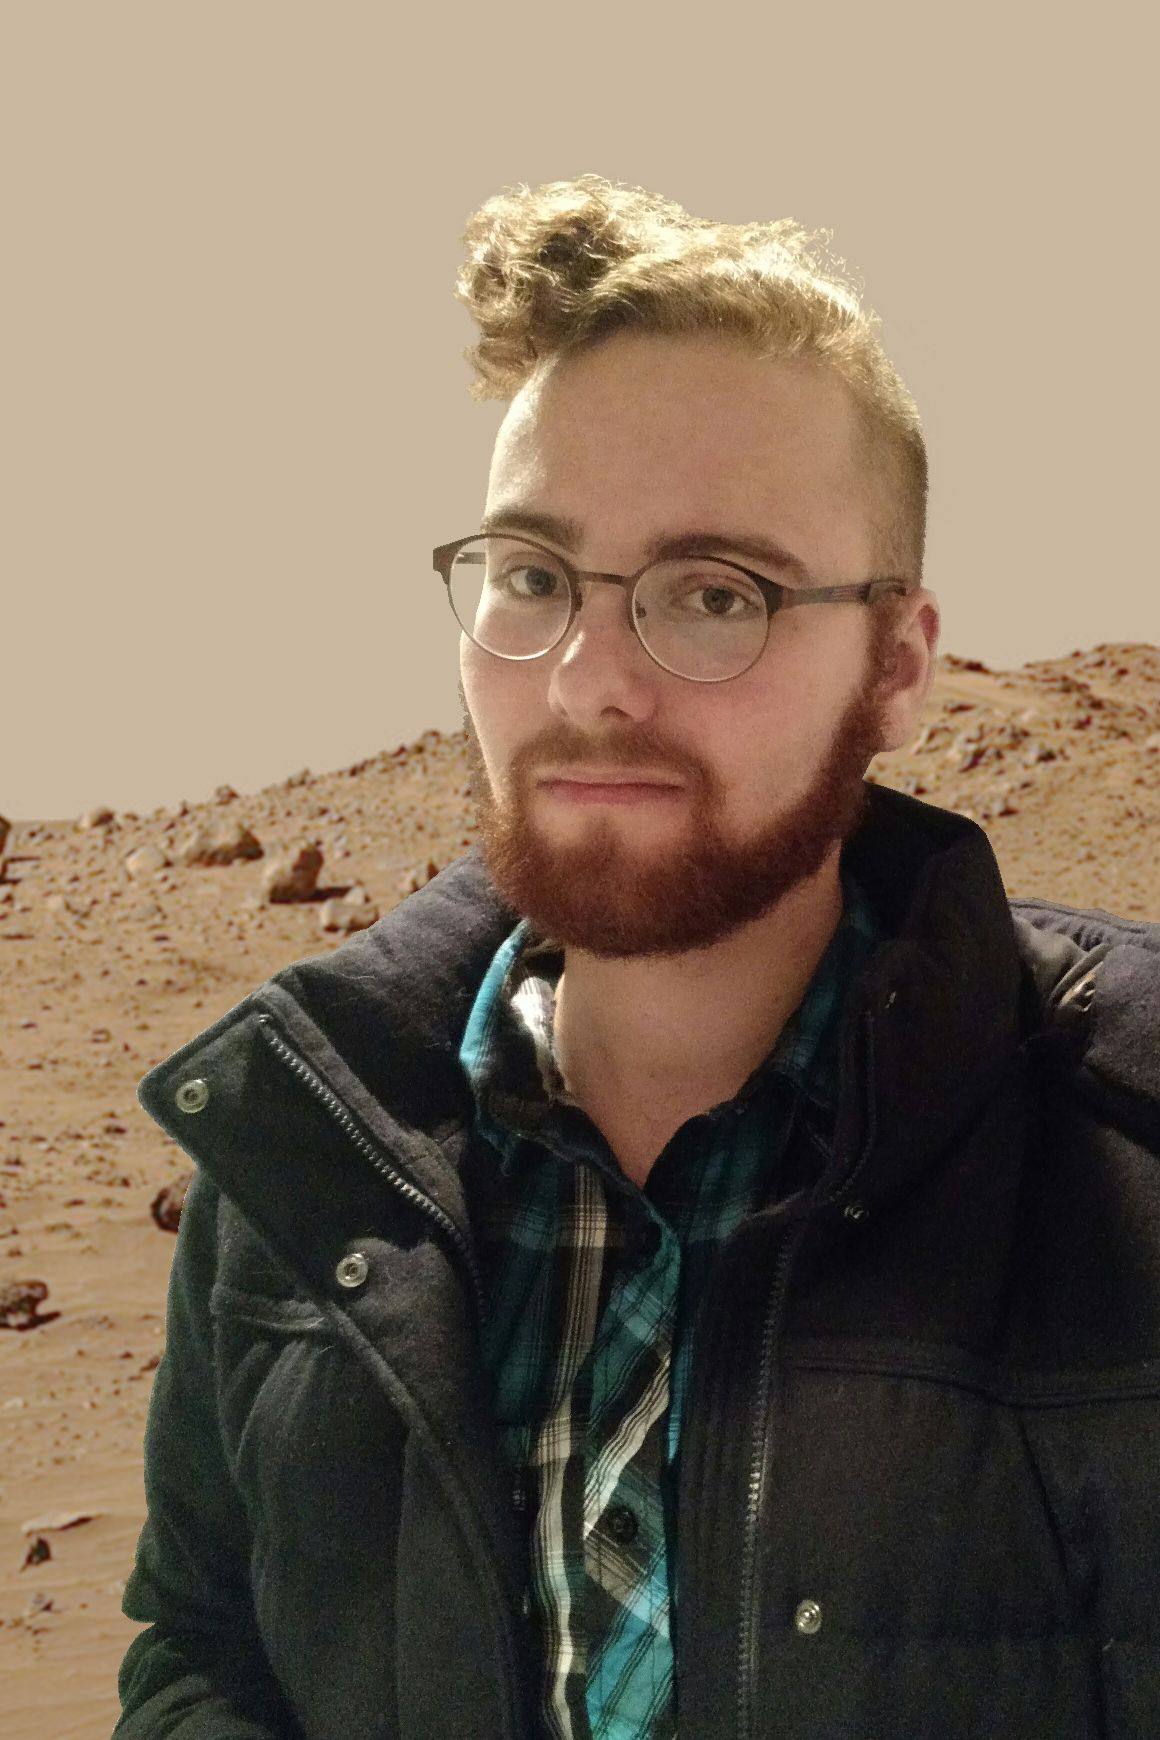
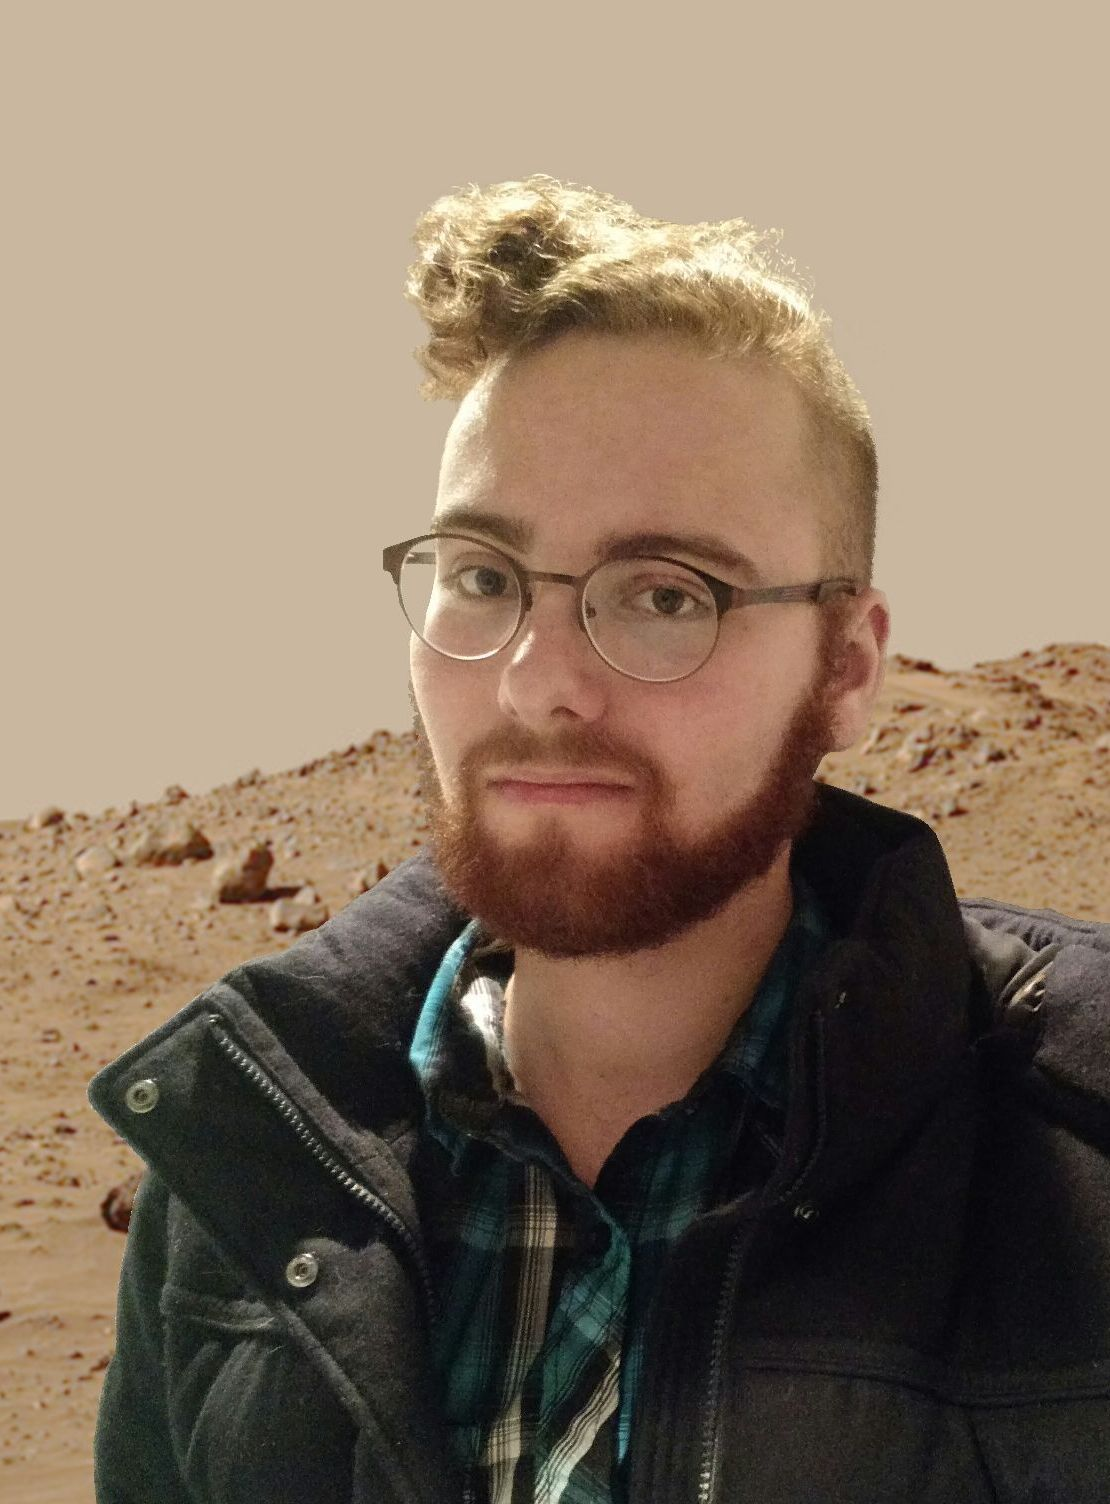
Add new headshot.

diff --git a/index.html b/index.html
@@ -1,5 +1,5 @@
 <div id="sidebar" style="margin-top: 7px; float: left; border-radius: 15px; border: 1px solid grey; overflow: hidden">
-    <img alt="" src="/images/headshot-2.jpg" style="width: 322px"/><br/>
+    <img alt="" src="/images/headshot-3.jpg" style="width: 320px"/><br/>
 </div>
 <p>
     Hi, I'm <span style="font-weight: 500">Kenny Foner</span>. I'm a functional programmer and programming languages researcher&mdash;I delight in building practical tools from meaningful theory to make a positive difference for programmers and for the world.
